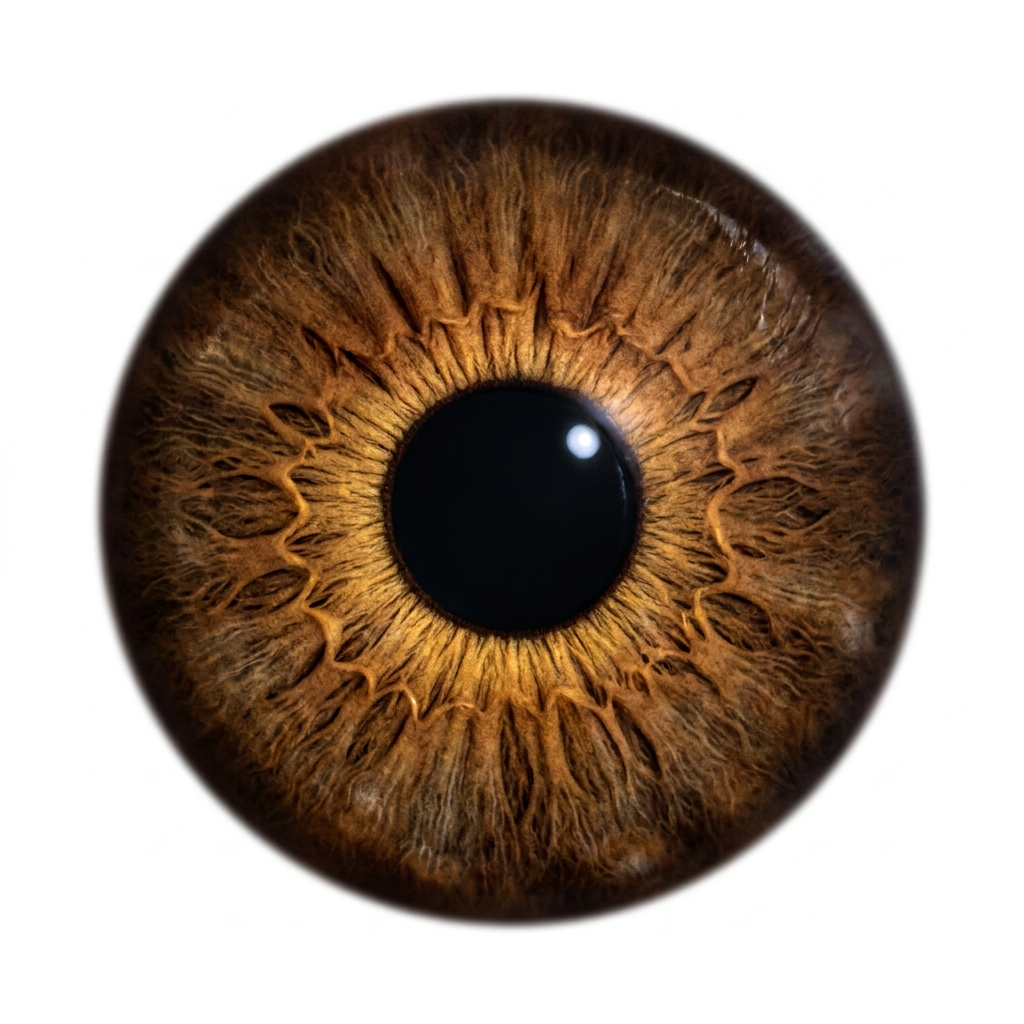
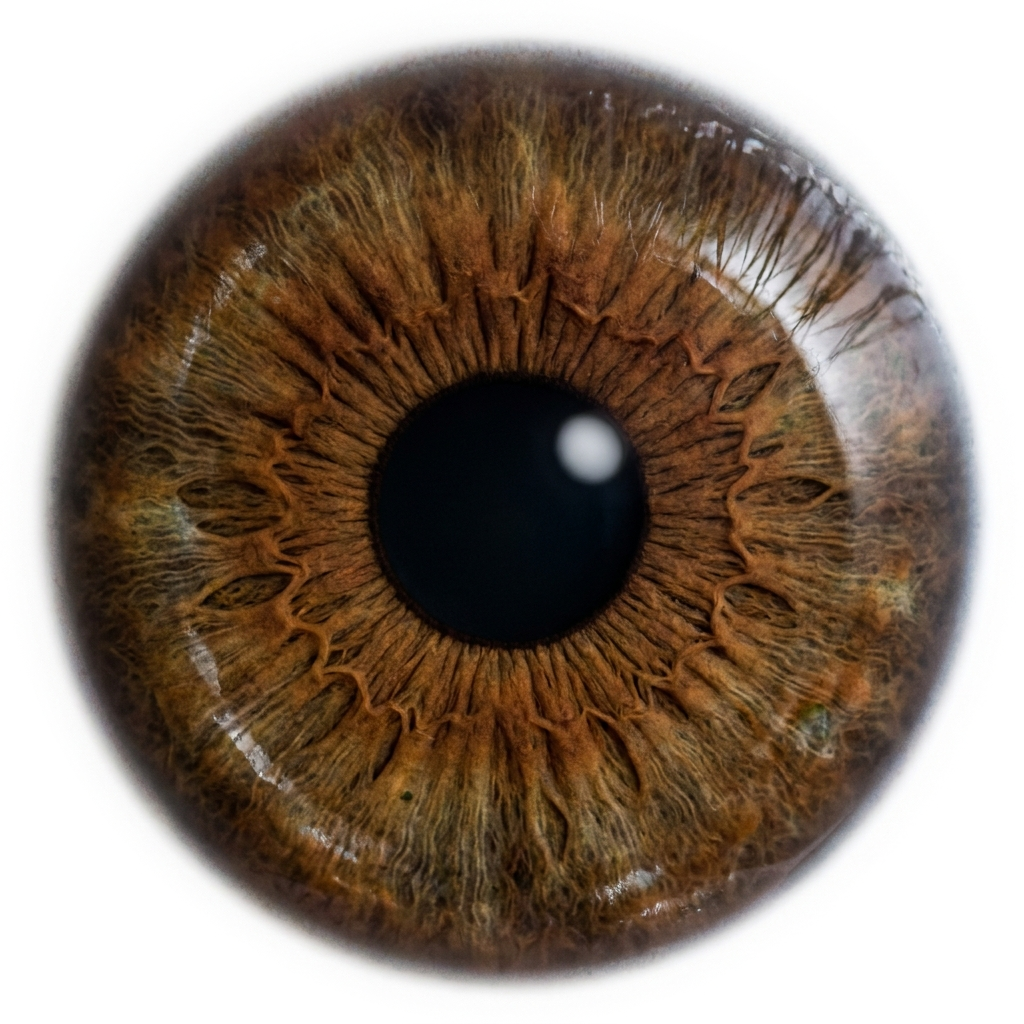
fix(login): bigger, more photoreal iris disc
Addresses "too fake / too small": regenerated the iris with a stronger
"real DSLR macro photograph, not a render" prompt (picked the most photographic
of 3) and enlarged the disc (min(66vh,52vw,720) -> min(88vh,60vw,980), bleeds
slightly off the right edge). login-eye.png = new masked iris; IRIS_PROMPT in
generate_login_eye.py hardened against the CGI/glass-marble look. build clean;
verified via Playwright.

diff --git a/frontend/src/styles/eyebot.css b/frontend/src/styles/eyebot.css
@@ -372,11 +372,11 @@ a { color: inherit; text-decoration: none; }
 .login-eye {
   position: absolute;
   top: 50%;
-  right: clamp(-6vw, 1vw, 48px);   /* a big iris disc on the right, on white */
+  right: clamp(-10vw, -1vw, 24px);  /* a large iris disc on the right, can kiss the edge */
   transform: translateY(-50%);
-  width: min(66vh, 52vw, 720px);
-  height: min(66vh, 52vw, 720px);
-  overflow: visible;               /* gaze drift must not be clipped */
+  width: min(88vh, 60vw, 980px);
+  height: min(88vh, 60vw, 980px);
+  overflow: visible;                /* gaze drift must not be clipped */
   pointer-events: none;
   z-index: 0;
 }

diff --git a/tools/media/generate_login_eye.py b/tools/media/generate_login_eye.py
@@ -85,16 +85,18 @@ HIGHKEY_PROMPT = (
 # Iris-only login hero: just the round iris + pupil on pure white, no eyelids / lashes /
 # sclera / skin. Placed big on the right; gaze-follows the cursor. ASCII-only.
 IRIS_PROMPT = (
-    "Extreme macro photograph of a single human iris and pupil ONLY, perfectly round and "
-    "centred, filling most of the frame. A natural medium-brown iris with hyper-detailed "
-    "anatomy: dense fine radial stromal fibres, Fuchs crypts, contraction furrows, a warm "
-    "golden inner ring blending into deeper brown, a distinct darker limbal ring at the "
-    "outer edge, and a perfectly round deep-black central pupil with one small crisp "
-    "pinpoint catchlight. Wet, glossy, lifelike surface with true-to-life colour and "
-    "micro-detail. Pure clean bright WHITE background completely surrounding the iris. "
-    "Absolutely NO eyelid, NO eyelashes, NO sclera, NO skin, NO face - only the round iris "
-    "and pupil on white. Hyper-detailed, photorealistic, studio macro photography. No text, "
-    "no logos, no graphics, no illustration."
+    "A real high-resolution DSLR macro PHOTOGRAPH of a single real human iris and pupil, "
+    "photographed extremely close up. This is a REAL PHOTOGRAPH - NOT a 3D render, NOT CGI, "
+    "NOT an illustration, NOT a glass marble or sphere, NOT stylised. Perfectly round and "
+    "centred, filling most of the frame. A natural brown iris with realistic slight "
+    "irregularity and asymmetry: dense fine radial stromal fibres, Fuchs crypts, contraction "
+    "furrows, subtle amber and faint green flecks, natural darker pigment patches, a soft "
+    "darker limbal ring, and a real round deep-black pupil with one small soft realistic "
+    "specular catchlight. Real wet corneal sheen, true photographic shallow depth of field "
+    "with the fibres tack-sharp, lifelike micro-texture, natural skin-free colour. Pure clean "
+    "bright WHITE seamless background completely surrounding the iris. Absolutely NO eyelid, "
+    "NO eyelashes, NO sclera, NO skin, NO face - only the round iris and pupil on white. "
+    "Photorealistic real macro photograph. No text, no logos, no graphics, no illustration."
 )
 
 
